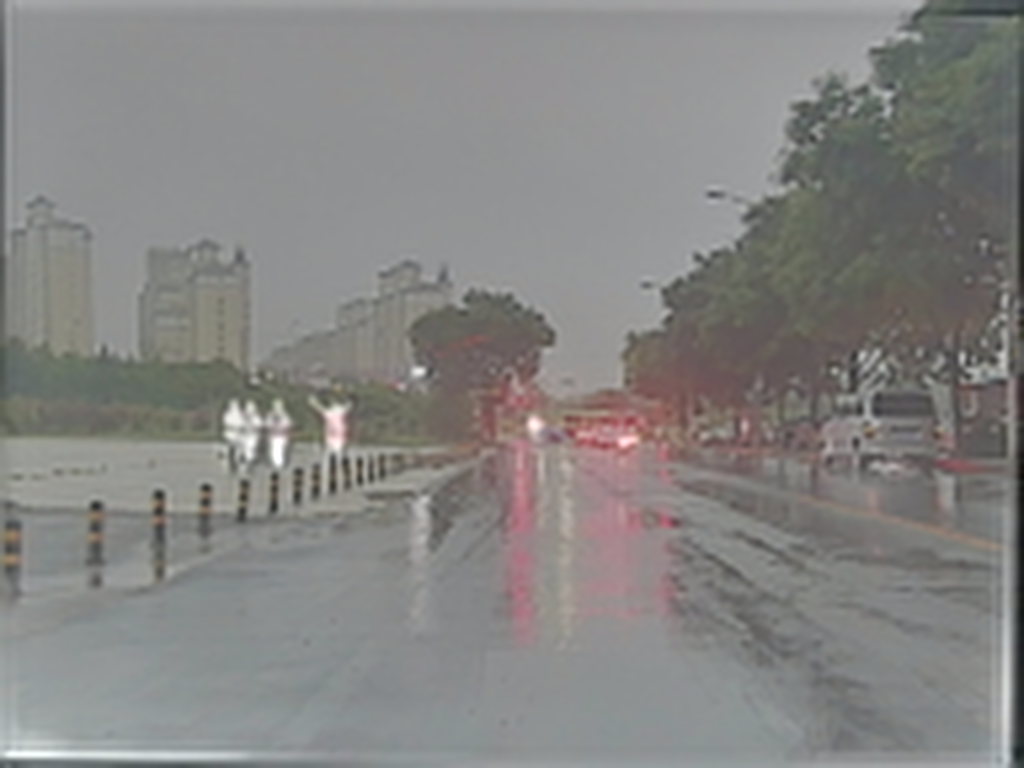
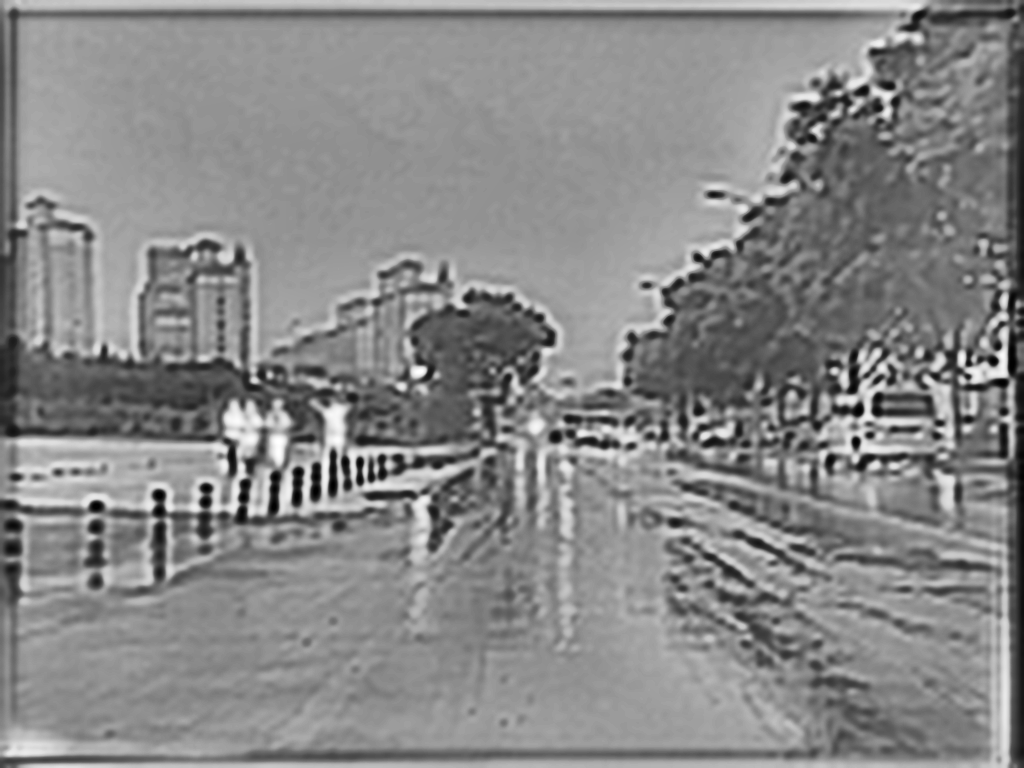
第三次修改

diff --git a/utils/loss.py b/utils/loss.py
@@ -1,6 +1,7 @@
 import torch
 import torch.nn as nn
 import torch.nn.functional as F
+from torchvision.models import VGG16_Weights, vgg16
 
 
 class SobelXY(nn.Module):
@@ -15,6 +16,58 @@ class SobelXY(nn.Module):
         grad_x = F.conv2d(x, self.weight_x, padding=1)
         grad_y = F.conv2d(x, self.weight_y, padding=1)
         return grad_x.abs() + grad_y.abs()
+
+
+class Laplacian(nn.Module):
+    def __init__(self):
+        super().__init__()
+        kernel = torch.tensor([[0, 1, 0], [1, -4, 1], [0, 1, 0]], dtype=torch.float32).view(1, 1, 3, 3)
+        self.register_buffer("weight", kernel)
+
+    def forward(self, x):
+        return F.conv2d(x, self.weight, padding=1).abs()
+
+
+class VGGPerceptualLoss(nn.Module):
+    def __init__(self, layer_ids=(3, 8, 15, 22)):
+        super().__init__()
+        weights = VGG16_Weights.DEFAULT
+        features = vgg16(weights=weights).features
+        max_layer = max(layer_ids) + 1
+        self.features = features[:max_layer].eval()
+        for param in self.features.parameters():
+            param.requires_grad_(False)
+
+        self.layer_ids = set(layer_ids)
+        mean = torch.tensor(weights.transforms().mean, dtype=torch.float32).view(1, 3, 1, 1)
+        std = torch.tensor(weights.transforms().std, dtype=torch.float32).view(1, 3, 1, 1)
+        self.register_buffer("mean", mean)
+        self.register_buffer("std", std)
+
+    def _prepare(self, x):
+        x = x.repeat(1, 3, 1, 1)
+        return (x - self.mean) / self.std
+
+    def forward(self, fused, img_ir, img_vis):
+        fused = self._prepare(fused)
+        img_ir = self._prepare(img_ir)
+        img_vis = self._prepare(img_vis)
+
+        loss = fused.new_zeros(())
+        feat_fused = fused
+        feat_ir = img_ir
+        feat_vis = img_vis
+        for idx, layer in enumerate(self.features):
+            feat_fused = layer(feat_fused)
+            with torch.no_grad():
+                feat_ir = layer(feat_ir)
+                feat_vis = layer(feat_vis)
+            if idx in self.layer_ids:
+                loss = loss + 0.5 * (
+                    F.l1_loss(feat_fused, feat_ir.detach()) +
+                    F.l1_loss(feat_fused, feat_vis.detach())
+                )
+        return loss / max(len(self.layer_ids), 1)
 
 
 class SSIMLoss(nn.Module):
@@ -45,16 +98,22 @@ class FusionLoss(nn.Module):
         objectness_weight=0.4,
         detail_weight=1.0,
         semantic_weight=0.2,
+        perceptual_weight=0.15,
+        local_window_size=7,
     ):
         super().__init__()
         self.sobel = SobelXY()
+        self.laplacian = Laplacian()
         self.ssim = SSIMLoss()
-        self.gradient_weight = gradient_weight
+        self.vgg_perceptual = VGGPerceptualLoss()
+        self.gradient_weight = gradient_weight * 2.0
         self.edge_weight = edge_weight
         self.ssim_weight = ssim_weight
         self.objectness_weight = objectness_weight
         self.detail_weight = detail_weight
         self.semantic_weight = semantic_weight
+        self.perceptual_weight = perceptual_weight
+        self.local_window_size = local_window_size
 
     @staticmethod
     def _set_requires_grad(module, requires_grad):
@@ -74,6 +133,12 @@ class FusionLoss(nn.Module):
         feat = F.normalize(feat, dim=1, eps=1e-6)
         target = F.normalize(target.detach(), dim=1, eps=1e-6)
         return F.mse_loss(feat, target)
+
+    def _local_variance(self, x):
+        kernel = self.local_window_size
+        mean = F.avg_pool2d(x, kernel, stride=1, padding=kernel // 2)
+        mean_sq = F.avg_pool2d(x * x, kernel, stride=1, padding=kernel // 2)
+        return (mean_sq - mean.pow(2)).clamp_min(0.0)
 
     def _semantic_consistency_loss(self, img_fused, img_ir, img_vis, semantic_detector):
         if semantic_detector is None:
@@ -108,23 +173,34 @@ class FusionLoss(nn.Module):
         detail_map=None,
         semantic_detector=None,
     ):
-        target_intensity = torch.maximum(img_ir, img_vis)
+        var_ir = self._local_variance(img_ir)
+        var_vis = self._local_variance(img_vis)
+        contrast_sum = var_ir + var_vis + 1e-6
+        weight_ir = var_ir / contrast_sum
+        weight_vis = var_vis / contrast_sum
+        target_intensity = weight_ir * img_ir + weight_vis * img_vis
         loss_intensity = F.l1_loss(img_fused, target_intensity)
 
         grad_fused = self.sobel(img_fused)
         grad_ir = self.sobel(img_ir)
         grad_vis = self.sobel(img_vis)
-        target_grad = torch.maximum(grad_ir, grad_vis)
+        target_grad = weight_ir * grad_ir + weight_vis * grad_vis
         source_grad = target_grad.detach()
         source_grad = source_grad / (source_grad.amax(dim=(-2, -1), keepdim=True) + 1e-6)
         gradient_weight_map = 1.0 + 2.0 * source_grad
         loss_gradient = (gradient_weight_map * (grad_fused - target_grad).abs()).mean()
 
+        lap_fused = self.laplacian(img_fused)
+        lap_ir = self.laplacian(img_ir)
+        lap_vis = self.laplacian(img_vis)
+        target_lap = weight_ir * lap_ir + weight_vis * lap_vis
         edge_weight_map = torch.ones_like(target_grad)
         if objectness_map is not None:
             objectness_map = F.interpolate(objectness_map, size=img_fused.shape[-2:], mode="bilinear", align_corners=False)
             edge_weight_map = edge_weight_map + 0.25 * objectness_map.detach().clamp(0.0, 1.0)
-        loss_edge = (edge_weight_map * (grad_fused - target_grad).abs()).mean()
+        loss_edge = (
+            edge_weight_map * ((grad_fused - target_grad).abs() + (lap_fused - target_lap).abs())
+        ).mean()
 
         loss_ssim = 0.5 * (self.ssim(img_fused, img_ir) + self.ssim(img_fused, img_vis))
 
@@ -145,6 +221,7 @@ class FusionLoss(nn.Module):
             loss_detail = (detail_weight_map * (img_fused - detail_map).abs()).mean()
 
         loss_semantic = self._semantic_consistency_loss(img_fused, img_ir, img_vis, semantic_detector)
+        loss_perceptual = self.vgg_perceptual(img_fused, img_ir, img_vis)
 
         total = (
             loss_intensity
@@ -154,6 +231,7 @@ class FusionLoss(nn.Module):
             + self.objectness_weight * loss_objectness
             + self.detail_weight * loss_detail
             + self.semantic_weight * loss_semantic
+            + self.perceptual_weight * loss_perceptual
         )
         components = {
             "intensity": loss_intensity,
@@ -163,5 +241,6 @@ class FusionLoss(nn.Module):
             "objectness": loss_objectness,
             "detail": loss_detail,
             "semantic": loss_semantic,
+            "perceptual": loss_perceptual,
         }
         return total, components

diff --git a/infer.py b/infer.py
@@ -122,19 +122,17 @@ def _restore_chroma(chroma, chroma_meta, target_shape):
     return cb.clip(0.0, 1.0), cr.clip(0.0, 1.0)
 
 
+def apply_clahe(image, clip_limit=2.0, tile_grid_size=(8, 8)):
+    clahe = cv2.createCLAHE(clipLimit=clip_limit, tileGridSize=tile_grid_size)
+    return clahe.apply(image)
+
+
 def save_fused_image(fused, resize_meta, save_path, chroma=None, chroma_meta=None):
     fused_y = fused.squeeze().cpu().numpy()
     fused_y = undo_letterbox_image(fused_y, resize_meta, interpolation=cv2.INTER_LANCZOS4)
     fused_y = fused_y.clip(0.0, 1.0)
-
-    if chroma is None:
-        image = (fused_y * 255.0).clip(0, 255).astype("uint8")
-    else:
-        chroma_np = chroma.squeeze(0).detach().cpu().numpy()
-        cb, cr = _restore_chroma(chroma_np, chroma_meta or resize_meta, fused_y.shape[:2])
-        rgb = ycbcr_to_rgb(fused_y, cb, cr)
-        image = cv2.cvtColor((rgb * 255.0).clip(0, 255).astype("uint8"), cv2.COLOR_RGB2BGR)
-
+    image = (fused_y * 255.0).clip(0, 255).astype("uint8")
+    image = apply_clahe(image)
     cv2.imwrite(save_path, image)
 
 

diff --git a/models/dahaf_net.py b/models/dahaf_net.py
@@ -190,8 +190,9 @@ class DAHAFNet(nn.Module):
             "stats": fusion["stats"],
         }
 
-    def decode(self, fused_features, img_ir, img_vis_rgb, detail_map=None):
-        residual = 0.5 * (img_ir + img_vis_rgb.mean(dim=1, keepdim=True))
+    def decode(self, fused_features, img_ir, img_vis, detail_map=None):
+        vis_blur = F.avg_pool2d(img_vis, kernel_size=5, stride=1, padding=2)
+        residual = img_vis - vis_blur
         return self.decoder(
             fused_features["deep"],
             fused_features["mid"],
@@ -203,7 +204,7 @@ class DAHAFNet(nn.Module):
     def apply_objectness_guidance(self, fused, task_signals):
         if task_signals is None or "obj" not in task_signals:
             return fused
-        obj = task_signals["obj"].detach()
+        obj = task_signals["obj"]
         obj = F.interpolate(obj, size=fused.shape[-2:], mode="bilinear", align_corners=False)
         obj = obj.clamp(0.0, 1.0)
         detail = fused - F.avg_pool2d(fused, kernel_size=3, stride=1, padding=1)